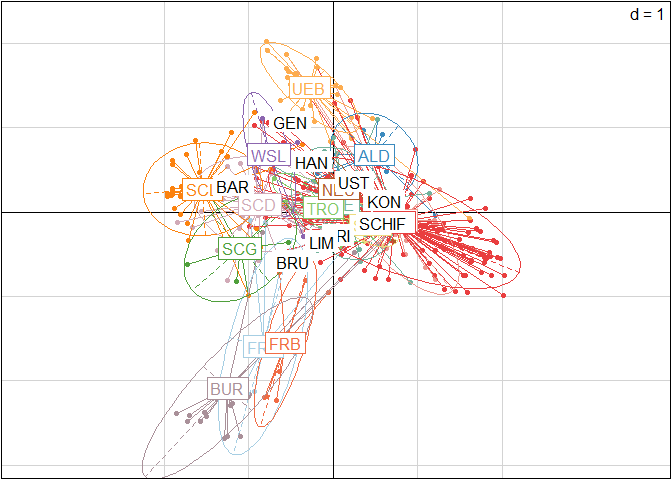
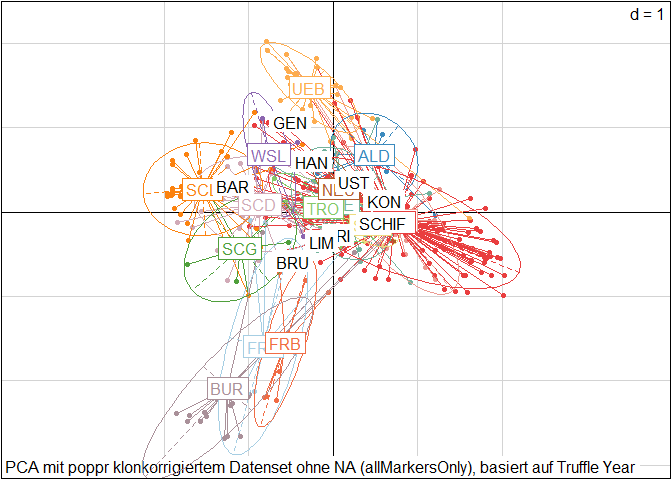
Beschriftung PCAs

Changed region(s): [[0.0, 0.9375, 0.9375, 1.0]]

diff --git a/Presentation_Summer_24.md b/Presentation_Summer_24.md
@@ -692,7 +692,7 @@ pca.pops_cc.SY <- dudi.pca(df = x.pops_cc.SY,
 s.class(pca.pops_cc.SY$li,
         fac=pop(cc_myData_genind_allMarkersOnly_SY),
         col=funky(15),
-        sub="PCA mit poppr klonkorrigiertem Datenset ohne NA (allMarkersOnly)")
+        sub="PCA mit poppr klonkorrigiertem Datenset ohne NA (allMarkersOnly), basiert auf Sampling Year")
 ```
 
 ![](Presentation_Summer_24_files/figure-gfm/pca-2.png)<!-- -->
@@ -707,7 +707,8 @@ pca.pops_cc.TY <- dudi.pca(df = x.pops_cc.TY,
                            center = TRUE, scale = FALSE, scannf = FALSE, nf = 2)
 s.class(pca.pops_cc.TY$li,
         fac=pop(cc_myData_genind_allMarkersOnly_TY),
-        col=funky(15))
+        col=funky(15),
+        sub="PCA mit poppr klonkorrigiertem Datenset ohne NA (allMarkersOnly), basiert auf Truffle Year")
 ```
 
 ![](Presentation_Summer_24_files/figure-gfm/pca-3.png)<!-- -->
